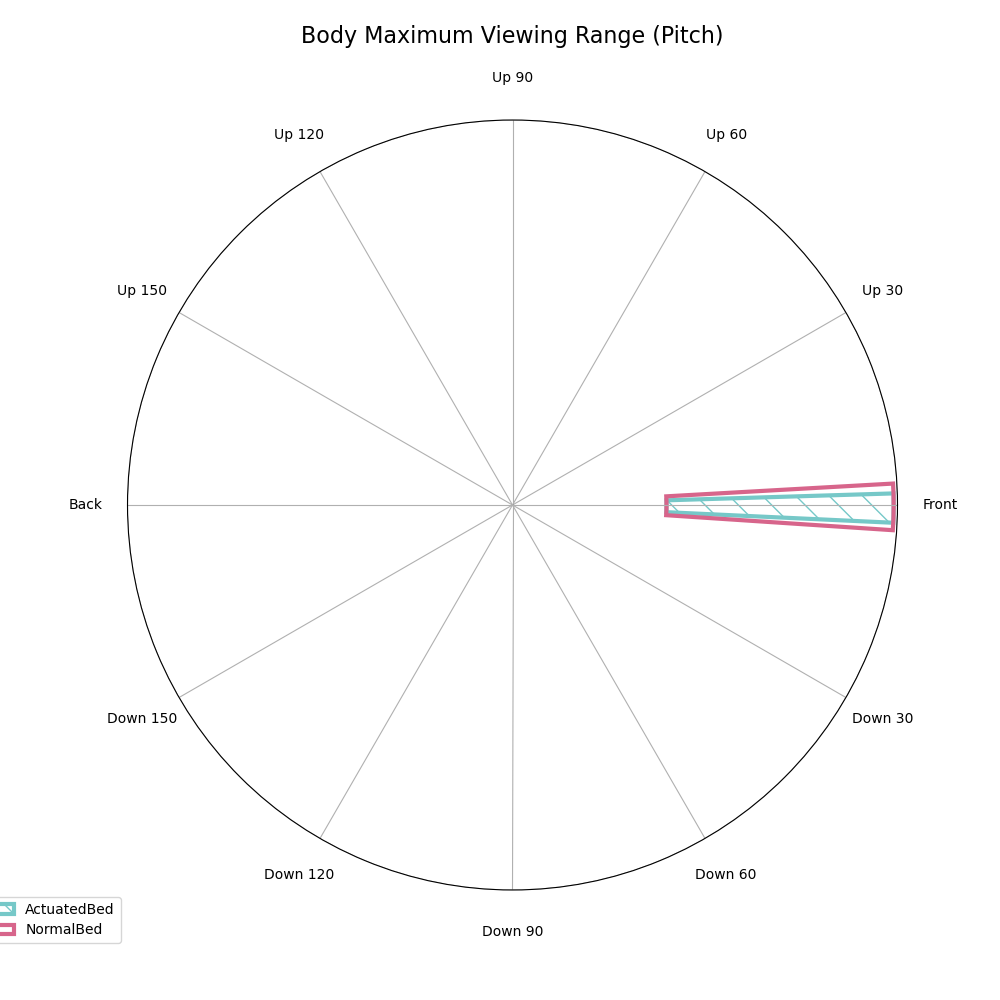
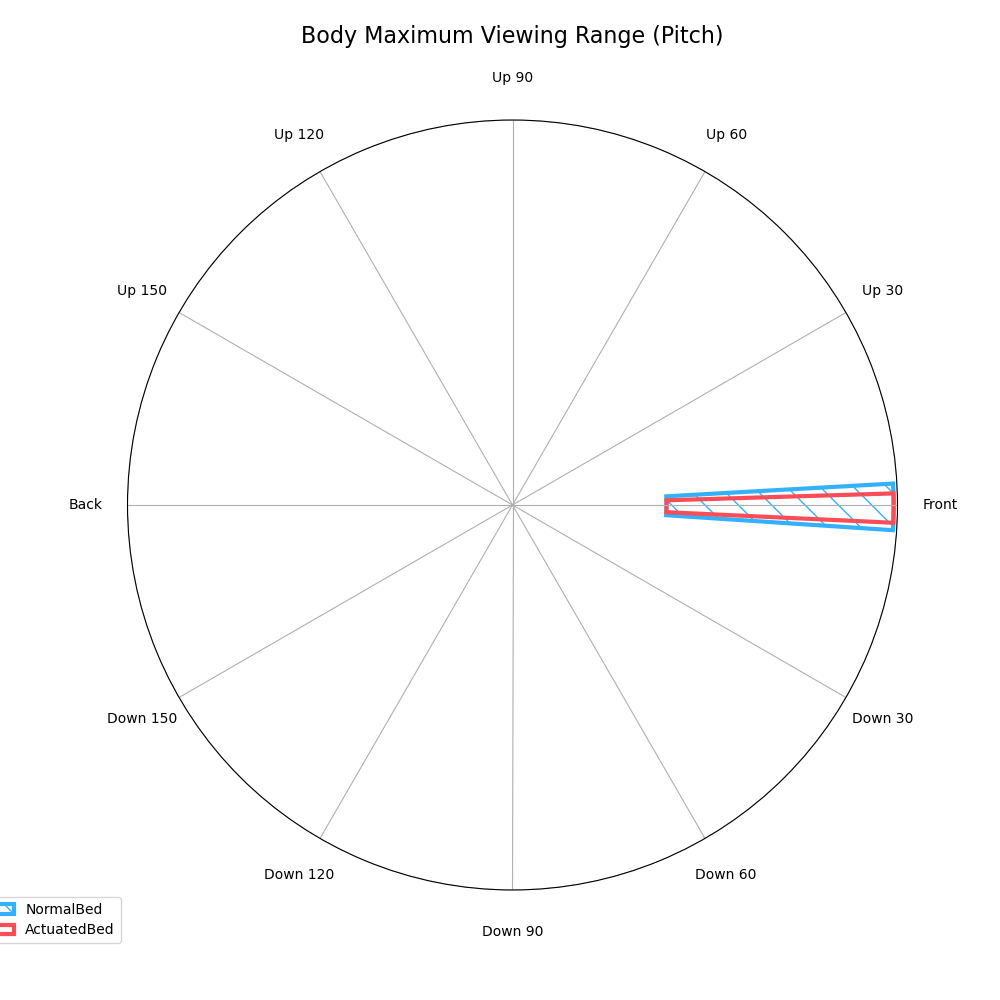
change color

Changed region(s): [[0.651, 0.465, 0.899, 0.558], [0.0, 0.899, 0.124, 0.961]]

diff --git a/Summative/Freeplay_DrawLikert.py b/Summative/Freeplay_DrawLikert.py
@@ -2,9 +2,6 @@ import pygsheets
 import pandas as pd
 import matplotlib.pyplot as plt
 import numpy as np
-import statistics as stat
-import csv
-from math import pi
 from Constant import *
 
 # Get dataframe from Google Sheet
@@ -22,32 +19,6 @@ df = wks.get_as_df()
 df = df.loc[df["受試者編號"] > 0]
 
 
-def GetDataFromSheet(metrics):
-    DataDict = dict()
-    for condition in Conditions:
-        DataDict[condition] = dict()
-        for app in Applications:
-            DataDict[condition][app] = [0] * len(Points)
-    for app in Applications:
-        for i, row in df.iterrows():
-            DataDict[row[f"{app}-{metrics}-1"]][app][
-                int(row[f"{app}-{metrics}-2"]) - 1
-            ] += 1
-
-    return DataDict
-
-
-def GetOverallPreference():
-    OverallPreferenceData = {
-        "NormalBed": [0],
-        "ActuatedBed": [0],
-    }
-    for i, row in df.iterrows():
-        OverallPreferenceData[row["OverallPreference"]][0] += 1
-
-    return OverallPreferenceData
-
-
 def DrawHorizontalStackBarChart(FigureTitle, Data):
     fig, axes = plt.subplots(figsize=(12, 4), ncols=2, sharey=True)
     fig.tight_layout()
@@ -56,7 +27,7 @@ def DrawHorizontalStackBarChart(FigureTitle, Data):
         data = np.array(list(Data[condition].values()))
         data_cum = data.cumsum(axis=1)
 
-        axes[i].set_title(condition, color=Colors[i][3])
+        axes[i].set_title(condition, color=Colors[i][1])
         axes[i].set_xlim(0, 10)
         axes[i].set_xticks([0, 2, 4, 6, 8, 10])
 
@@ -64,12 +35,13 @@ def DrawHorizontalStackBarChart(FigureTitle, Data):
             widths = data[:, j]
             starts = data_cum[:, j] - widths
             rects = axes[i].barh(
-                Applications,
+                Applications + ["Overall"],
                 widths,
                 left=starts,
                 align="center",
                 height=0.4,
                 color=Colors[i][j],
+                alpha=0.8,
             )
             # axes[i].bar_label(rects, label_type="center")
 
@@ -96,7 +68,7 @@ def DrawPreferenceDataChart(Data, FigureTitle="Overall Preference"):
 
     for i, condition in enumerate(Conditions):
 
-        axes[i].set_title(condition, color=Colors[i][3])
+        axes[i].set_title(condition, color=Colors[i][1])
         axes[i].set_xlim(0, 10)
         axes[i].set_xticks([0, 2, 4, 6, 8, 10])
 
@@ -105,6 +77,7 @@ def DrawPreferenceDataChart(Data, FigureTitle="Overall Preference"):
             Data[condition],
             align="center",
             color=Colors[i][1],
+            alpha=0.8,
         )
 
     axes[0].invert_xaxis()
@@ -122,11 +95,116 @@ def DrawPreferenceDataChart(Data, FigureTitle="Overall Preference"):
     print(f"Figure saved to {figurepath}\n")
 
 
-ComfortData = GetDataFromSheet("Comfort")
-DrawHorizontalStackBarChart("Comfort", ComfortData)
+# Get Comfort Data
+ComfortData = dict()
+for condition in Conditions:
+    ComfortData[condition] = dict()
+    for app in Applications:
+        ComfortData[condition][app] = [0] * len(Points)
+for app in Applications:
+    for i, row in df.iterrows():
+        ComfortData[row[f"{app}-{"Comfort"}-1"]][app][
+            int(row[f"{app}-{"Comfort"}-2"]) - 1
+        ] += 1
 
-PreferenceData = GetDataFromSheet("Preference")
-DrawHorizontalStackBarChart("Preference", PreferenceData)
+print(ComfortData)
 
-OverallPreferenceData = GetOverallPreference()
-DrawPreferenceDataChart(OverallPreferenceData)
+# Draw Comfort Figure
+fig, axes = plt.subplots(figsize=(12, 4), ncols=2, sharey=True)
+fig.tight_layout()
+
+for i, condition in enumerate(Conditions):
+    data = np.array(list(ComfortData[condition].values()))
+    data_cum = data.cumsum(axis=1)
+
+    axes[i].set_title(condition, color=Colors[i][2])
+    axes[i].set_xlim(0, 10)
+    axes[i].set_xticks([0, 2, 4, 6, 8, 10])
+
+    for j in range(0, len(Points)):
+        widths = data[:, j]
+        starts = data_cum[:, j] - widths
+        rects = axes[i].barh(
+            Applications,
+            widths,
+            left=starts,
+            align="center",
+            height=0.4,
+            color=Colors[i][j],
+        )
+        # axes[i].bar_label(rects, label_type="center")
+
+axes[0].invert_xaxis()
+axes[0].set_yticks(range(len(Applications)))
+axes[0].set_yticklabels(Applications)
+axes[0].yaxis.tick_left()
+axes[0].tick_params(axis="y")
+
+plt.ylim(-1, 2)
+plt.subplots_adjust(wspace=0, top=0.85, bottom=0.1, left=0.18, right=0.95)
+plt.suptitle("Comfort", fontsize=16, fontweight="bold")
+
+figurepath = f"{RootDir}/Result Figure/Summative Freeplay Comfort [BarH].png"
+plt.savefig(figurepath, transparent=False)
+plt.close()
+
+print(f"Figure saved to {figurepath}\n")
+
+# Get Preference Data
+PreferenceData = dict()
+for condition in Conditions:
+    PreferenceData[condition] = dict()
+    PreferenceData[condition]["Overall"] = [0] * len(Points)
+    for app in Applications:
+        PreferenceData[condition][app] = [0] * len(Points)
+
+for app in Applications:
+    for i, row in df.iterrows():
+        PreferenceData[row[f"{app}-{"Preference"}-1"]][app][
+            int(row[f"{app}-{"Preference"}-2"]) - 1
+        ] += 1
+for i, row in df.iterrows():
+    PreferenceData[row["OverallPreference"]]["Overall"][2] += 1
+
+print(PreferenceData)
+
+# Draw Preference Figure
+fig, axes = plt.subplots(figsize=(12, 4), ncols=2, sharey=True)
+fig.tight_layout()
+
+for i, condition in enumerate(Conditions):
+    data = np.array(list(PreferenceData[condition].values()))
+    data_cum = data.cumsum(axis=1)
+
+    axes[i].set_title(condition, color=Colors[i][2])
+    axes[i].set_xlim(0, 10)
+    axes[i].set_xticks([0, 2, 4, 6, 8, 10])
+
+    for j in range(0, len(Points)):
+        widths = data[:, j]
+        starts = data_cum[:, j] - widths
+        rects = axes[i].barh(
+            ["Overall"] + Applications,
+            widths,
+            left=starts,
+            align="center",
+            height=0.4,
+            color=Colors[i][j],
+        )
+        # axes[i].bar_label(rects, label_type="center")
+
+axes[0].invert_xaxis()
+axes[0].set_yticks(range(len(Applications) + 1))
+axes[0].set_yticklabels(["Overall"] + Applications)
+axes[0].yaxis.tick_left()
+axes[0].tick_params(axis="y")
+
+plt.ylim(-1, 3)
+plt.subplots_adjust(wspace=0, top=0.85, bottom=0.1, left=0.18, right=0.95)
+plt.suptitle("Preference", fontsize=16, fontweight="bold")
+
+figurepath = f"{RootDir}/Result Figure/Summative Freeplay Preference [BarH].png"
+plt.savefig(figurepath, transparent=False)
+plt.close()
+
+print(f"Figure saved to {figurepath}\n")

diff --git a/Summative/Constant.py b/Summative/Constant.py
@@ -1,14 +1,14 @@
 RootDir = "./Summative"
 
 Participants = list(range(1, 10 + 1))
-Conditions = ["ActuatedBed", "NormalBed"]
+Conditions = ["NormalBed", "ActuatedBed"]
 Directions = ["Right", "Up", "Left", "Down"]
 Applications = ["Ecosphere", "Archery"]
 Points = list(range(1, 5 + 1))
 EcosphereClips = ["EcosphereBorneo", "EcosphereRajaAmpat"]
 Colors = [
-    ["#badbdb", "#98d1d1", "#76c8c8", "#54bebe", "#3ea3a3"],
-    ["#e4bcad", "#df979e", "#d7658b", "#c80064", "#8f0047"],
+    ["#e5f6ff", "#82cfff", "#33b1ff", "#0072c3", "#003a6d"],
+    ["#ffd7d9", "#ff8389", "#fa4d56", "#da1e28", "#750e13"],
 ]
 
 RangeRadarChartAngleLabels = {

diff --git a/Summative/Freeplay_DrawMetrics.py b/Summative/Freeplay_DrawMetrics.py
@@ -4,7 +4,6 @@ import matplotlib.pyplot as plt
 import numpy as np
 import statistics as stat
 import csv
-from math import pi
 from Constant import *
 
 # Get dataframe from Google Sheet
